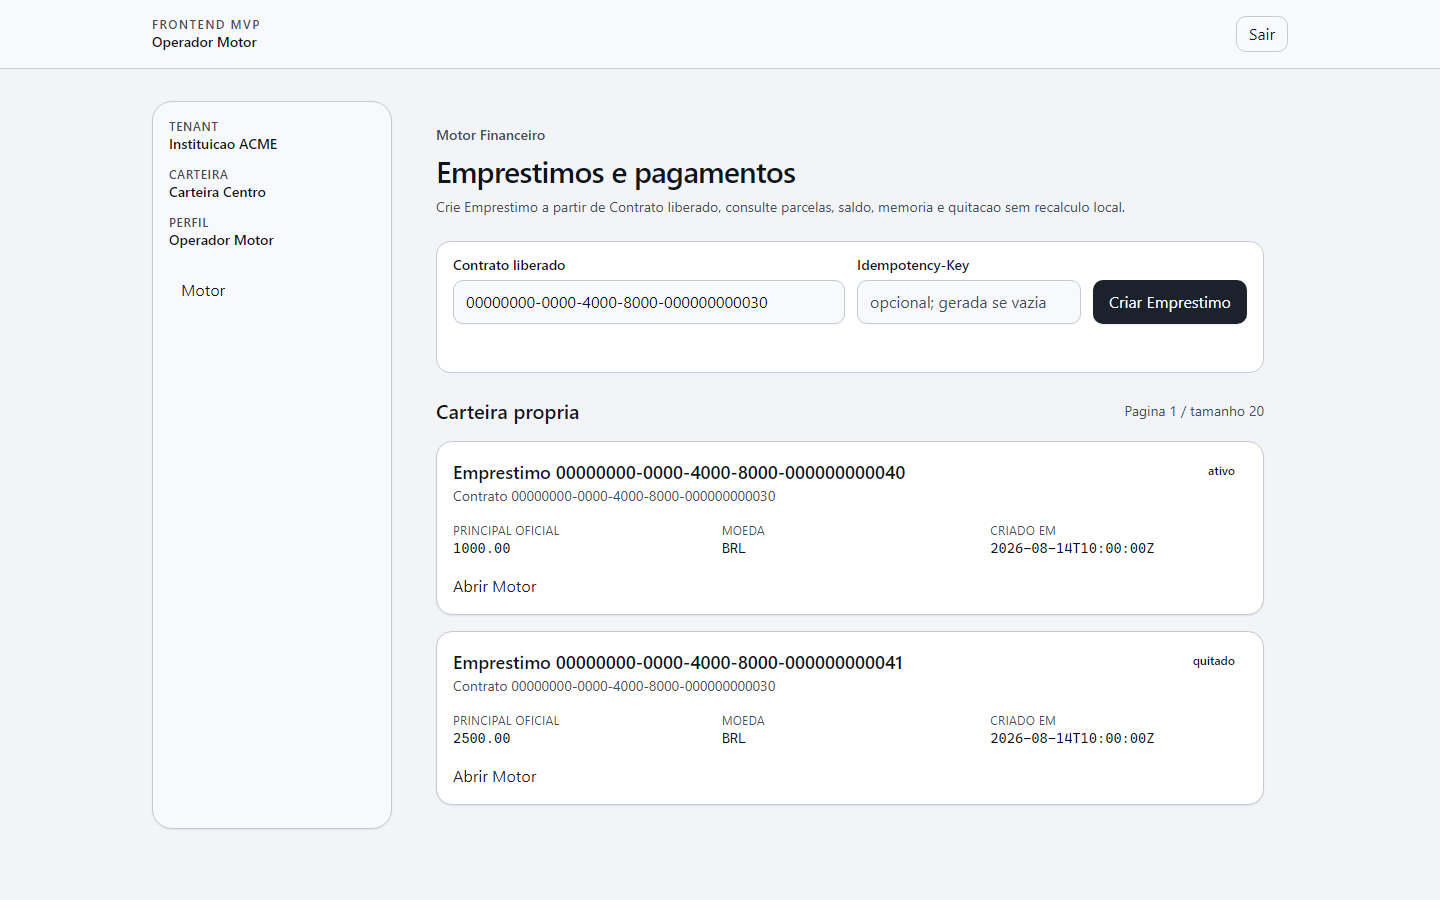
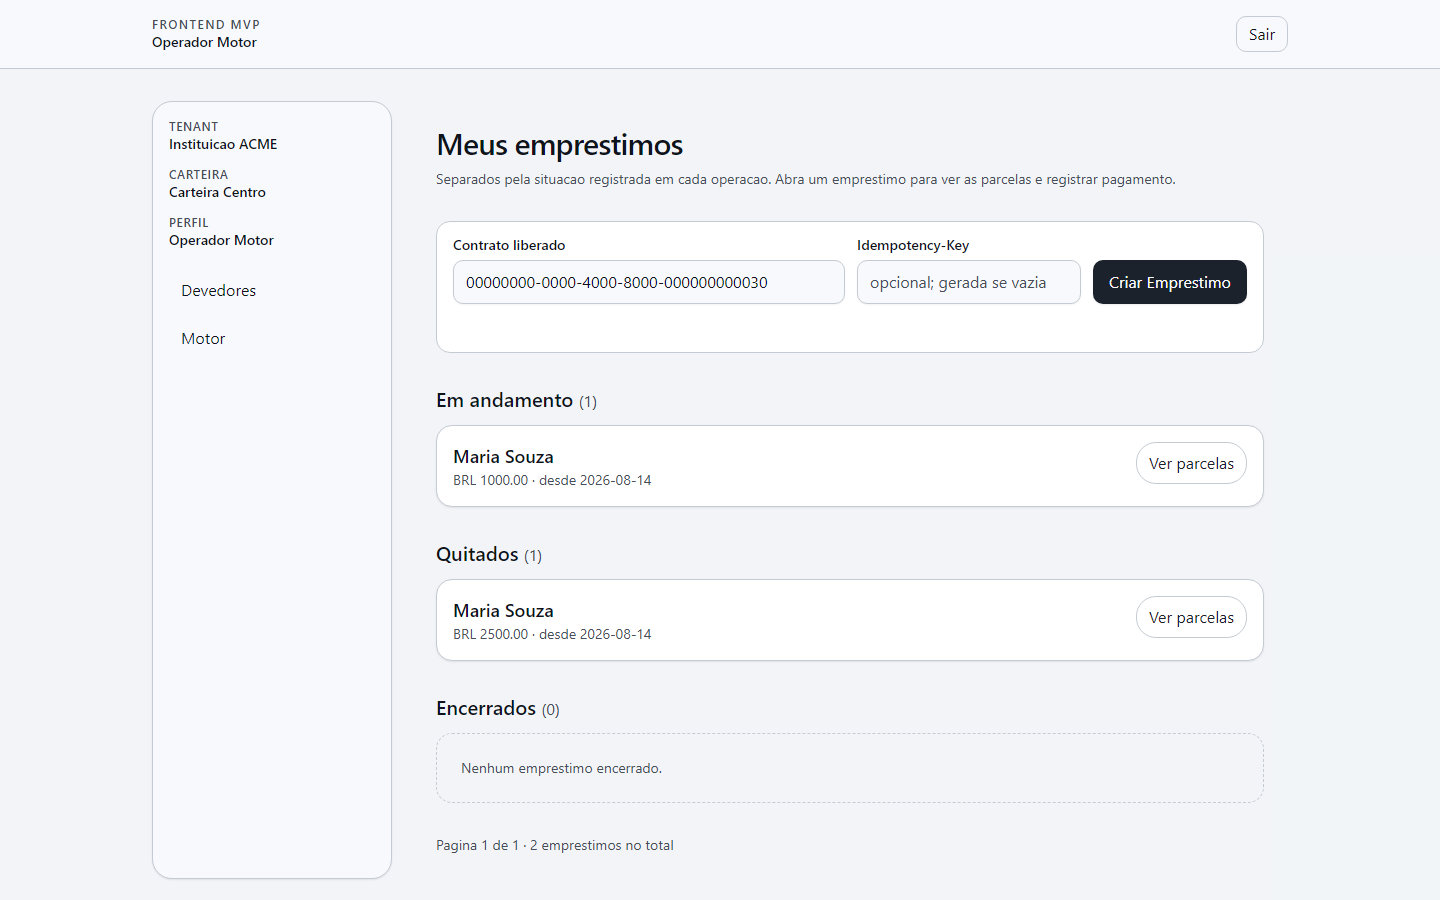
feat(frontend): lista de emprestimos em tres grupos (IMP-309)
A tela do Motor era uma superficie de certificacao, nao uma tela de
operador: titulo em UUID, "empty: nenhum Emprestimo oficial retornado",
"denied" como cabecalho, e um <span class="sr-only">loading empty denied
404 409 422 overflow</span> renderizado no DOM — vocabulario de teste
lido em voz alta por leitor de tela. O Credor abriu e nao entendeu nada.

A lista passa a ter Em andamento, Quitados e Encerrados, cada grupo com a
propria contagem e a propria mensagem de ausencia. O grupo vem de
comparacao literal com `loan.estado`, o estado que o backend devolve;
nada e concluido aqui a partir de data ou saldo. O nome do Devedor toma o
lugar do UUID no titulo da linha, resolvido no servidor com uma unica
chamada para a pagina inteira — sem `devedor.ler` o rotulo degrada e a
lista de emprestimos continua funcionando.

Evidencia visual: os dois pinos da lista foram avancados porque a tela
mudou, e conferidos estaveis em quatro execucoes seguidas.

As duas evidencias de **detalhe** foram encontradas nao deterministicas —
variam entre execucoes identicas, sem alteracao de codigo: 34% dos pixels
diferem em toda a area, com o texto pintado identico, e nenhum
deslocamento vertical entre -40 e +40 px realinha as imagens. A causa nao
foi isolada. Como o defeito e anterior a este IMP, os pinos de detalhe
seguem nos bytes ja versionados em vez dos gerados localmente, e a
medicao ficou registrada no relatorio do IMP-294 com a consequencia
[…]

diff --git a/frontend/src/components/motor/motor.tsx b/frontend/src/components/motor/motor.tsx
@@ -7,6 +7,7 @@ import {
   MOTOR_PAYMENT_CREATE_PERMISSION,
   MOTOR_RENEGOTIATION_CREATE_PERMISSION,
   MOTOR_SETTLEMENT_EXECUTE_PERMISSION,
+  agruparPorSituacao,
   hasExactPermission,
   type Balance,
   type CalculationMemory,
@@ -25,6 +26,8 @@ type MotorAction = (state: MotorActionState, formData: FormData) => Promise<Moto
 
 type MotorPageProps = Readonly<{
   createAction: MotorAction;
+  /** devedor_id -> nome, resolvido no servidor. Vazio quando falta permissao de leitura de Devedor. */
+  devedores: ReadonlyMap<string, string>;
   filters: LoanFilters;
   initialContractId?: string | undefined;
   initialState: MotorActionState;
@@ -113,15 +116,65 @@ function LoanCard({ loan }: { loan: Loan }) {
   );
 }
 
-export function MotorPage({ createAction, filters, initialContractId, initialState, permissions, recoveryHref, result }: MotorPageProps) {
+/**
+ * Linha da lista operacional: quem, quanto e desde quando.
+ *
+ * O identificador do Emprestimo deixa de ser o titulo. Um UUID nao diz nada a
+ * quem emprestou o proprio dinheiro; o nome do Devedor diz. O identificador
+ * continua acessivel no destino do link, para suporte e auditoria.
+ */
+function LoanRow({ devedor, loan }: { devedor: string | undefined; loan: Loan }) {
   return (
-    <main className="space-y-6 p-6">
-      <span className="sr-only">loading empty denied 404 409 422 overflow</span>
+    <li className="rounded-2xl border border-border bg-card p-4 shadow-sm">
+      <div className="flex flex-wrap items-start justify-between gap-3">
+        <div className="min-w-0">
+          <h3 className="truncate text-lg font-semibold">{devedor ?? "Devedor nao identificado"}</h3>
+          <p className="text-sm text-muted-foreground">
+            {loan.moeda} {loan.principal_original} · desde {loan.criado_em.slice(0, 10)}
+          </p>
+        </div>
+        <Link
+          className="shrink-0 rounded-xl border border-border px-3 py-2 text-sm font-semibold text-primary underline-offset-4 hover:underline"
+          href={`/app/motor/${loan.id}`}
+        >
+          Ver parcelas
+        </Link>
+      </div>
+    </li>
+  );
+}
+
+function SituacaoSection({
+  devedores,
+  emprestimos,
+  titulo,
+  vazio,
+}: Readonly<{ devedores: ReadonlyMap<string, string>; emprestimos: readonly Loan[]; titulo: string; vazio: string }>) {
+  return (
+    <section className="space-y-3">
+      <h2 className="text-xl font-semibold">
+        {titulo} <span className="text-base font-normal text-muted-foreground">({emprestimos.length})</span>
+      </h2>
+      {emprestimos.length === 0 ? (
+        <p className="rounded-2xl border border-dashed border-border p-6 text-sm text-muted-foreground">{vazio}</p>
+      ) : (
+        <ul className="grid list-none gap-3 p-0">
+          {emprestimos.map((loan) => (
+            <LoanRow devedor={devedores.get(loan.devedor_id)} key={loan.id} loan={loan} />
+          ))}
+        </ul>
+      )}
+    </section>
+  );
+}
+
+export function MotorPage({ createAction, devedores, filters, initialContractId, initialState, permissions, recoveryHref, result }: MotorPageProps) {
+  return (
+    <main className="space-y-8 p-6">
       <header className="space-y-2">
-        <p className="text-sm font-medium text-muted-foreground">Motor Financeiro</p>
-        <h1 className="text-3xl font-semibold tracking-tight">Emprestimos e pagamentos</h1>
+        <h1 className="text-3xl font-semibold tracking-tight">Meus emprestimos</h1>
         <p className="max-w-3xl text-sm text-muted-foreground">
-          Crie Emprestimo a partir de Contrato liberado, consulte parcelas, saldo, memoria e quitacao sem recalculo local.
+          Separados pela situacao registrada em cada operacao. Abra um emprestimo para ver as parcelas e registrar pagamento.
         </p>
       </header>
       {hasExactPermission(permissions, MOTOR_LOAN_CREATE_PERMISSION) ? (
@@ -130,19 +183,20 @@ export function MotorPage({ createAction, filters, initialContractId, initialSta
       {result.kind === "denied" ? <DeniedPanel /> : null}
       {result.kind === "problem" ? <ProblemPanel problem={result.problem} recoveryHref={recoveryHref} /> : null}
       {result.kind === "ready" ? (
-        <section className="space-y-4">
-          <div className="flex flex-wrap items-center justify-between gap-3">
-            <h2 className="text-xl font-semibold">Carteira propria</h2>
-            <p className="text-sm text-muted-foreground">Pagina {filters.page} / tamanho {filters.size}</p>
-          </div>
-          {result.data.items.length === 0 ? (
-            <div className="rounded-2xl border border-dashed border-border p-6 text-sm text-muted-foreground">empty: nenhum Emprestimo oficial retornado.</div>
-          ) : (
-            <div className="grid gap-4">
-              {result.data.items.map((loan) => <LoanCard key={loan.id} loan={loan} />)}
-            </div>
-          )}
-        </section>
+        <div className="space-y-8">
+          {agruparPorSituacao(result.data.items).map((grupo) => (
+            <SituacaoSection
+              devedores={devedores}
+              emprestimos={grupo.emprestimos}
+              key={grupo.chave}
+              titulo={grupo.titulo}
+              vazio={grupo.vazio}
+            />
+          ))}
+          <p className="text-sm text-muted-foreground">
+            Pagina {filters.page} de {result.data.pages} · {result.data.total} emprestimos no total
+          </p>
+        </div>
       ) : null}
     </main>
   );

diff --git a/frontend/tests/component/motor.test.tsx b/frontend/tests/component/motor.test.tsx
@@ -87,6 +87,7 @@ describe("Motor UI", () => {
     render(
       <MotorPage
         createAction={action}
+        devedores={new Map()}
         filters={{ page: 1, size: 20 }}
         initialContractId="00000000-0000-4000-8000-000000000030"
         initialState={INITIAL_MOTOR_ACTION_STATE}
@@ -95,16 +96,52 @@ describe("Motor UI", () => {
         result={{ kind: "ready", data: list }}
       />,
     );
-    expect(screen.getByRole("heading", { name: /Emprestimos e pagamentos/i })).toBeInTheDocument();
+    expect(screen.getByRole("heading", { name: /Meus emprestimos/i })).toBeInTheDocument();
     expect(screen.getByLabelText(/Contrato liberado/i)).toHaveValue("00000000-0000-4000-8000-000000000030");
-    expect(screen.getByText(/empty: nenhum Emprestimo/i)).toBeInTheDocument();
+    // empty: cada um dos tres grupos declara a propria ausencia, em vez de uma
+    // unica mensagem generica para a pagina inteira.
+    expect(screen.getByText(/Nenhum emprestimo em andamento/i)).toBeInTheDocument();
+    expect(screen.getByText(/Nenhum emprestimo quitado ainda/i)).toBeInTheDocument();
+    expect(screen.getByText(/Nenhum emprestimo encerrado/i)).toBeInTheDocument();
     expect(screen.queryByText(/accessToken|Bearer|Authorization/i)).not.toBeInTheDocument();
+  });
+
+  it("separa os emprestimos pelo estado devolvido, com o nome do Devedor no lugar do UUID", () => {
+    const quitado: Loan = { ...loan, devedor_id: "00000000-0000-4000-8000-000000000011", estado: "quitado", id: "00000000-0000-4000-8000-000000000041" };
+    const encerrado: Loan = { ...loan, devedor_id: "00000000-0000-4000-8000-000000000012", estado: "cancelado", id: "00000000-0000-4000-8000-000000000042" };
+    const list: LoanList = { items: [loan, quitado, encerrado], page: 1, pages: 1, size: 20, total: 3 };
+    render(
+      <MotorPage
+        createAction={action}
+        devedores={new Map([[loan.devedor_id, "Maria Souza"], [quitado.devedor_id, "Joao Lima"]])}
+        filters={{ page: 1, size: 20 }}
+        initialState={INITIAL_MOTOR_ACTION_STATE}
+        permissions={permissions}
+        recoveryHref="/session/recover"
+        result={{ kind: "ready", data: list }}
+      />,
+    );
+
+    // O grupo vem do campo `estado` que o backend devolveu, nunca de uma
+    // conclusao tirada de datas ou de saldo aqui.
+    expect(screen.getByRole("heading", { name: /Em andamento \(1\)/i })).toBeInTheDocument();
+    expect(screen.getByRole("heading", { name: /Quitados \(1\)/i })).toBeInTheDocument();
+    expect(screen.getByRole("heading", { name: /Encerrados \(1\)/i })).toBeInTheDocument();
+
+    expect(screen.getByRole("heading", { name: "Maria Souza" })).toBeInTheDocument();
+    expect(screen.getByRole("heading", { name: "Joao Lima" })).toBeInTheDocument();
+    // Devedor fora do mapa degrada o rotulo; nunca cai para o identificador cru.
+    expect(screen.getByRole("heading", { name: /Devedor nao identificado/i })).toBeInTheDocument();
+    expect(screen.queryByText(encerrado.devedor_id)).not.toBeInTheDocument();
+
+    expect(screen.getAllByRole("link", { name: /Ver parcelas/i })).toHaveLength(3);
   });
 
   it("mostra denied sem tentar fallback permissivo", () => {
     render(
       <MotorPage
         createAction={action}
+        devedores={new Map()}
         filters={{ page: 1, size: 20 }}
         initialState={INITIAL_MOTOR_ACTION_STATE}
         permissions={[]}

diff --git a/frontend/tests/motor-e2e/motor.spec.ts b/frontend/tests/motor-e2e/motor.spec.ts
@@ -53,9 +53,16 @@ test("lista Emprestimos e cria Emprestimo a partir de Contrato liberado sem Cart
   page.on("request", (request) => requests.push(request.url()));
   await login(page);
   await page.goto(`/app/motor?contrato_id=${IDS.contract}&tenant_id=hostil&carteira_id=hostil`);
-  await expect(page.getByRole("heading", { name: "Emprestimos e pagamentos" })).toBeVisible();
+  await expect(page.getByRole("heading", { name: "Meus emprestimos" })).toBeVisible();
   await expect(page.getByRole("link", { exact: true, name: "Motor" })).toHaveAttribute("href", "/app/motor");
   await expect(page.getByLabel("Contrato liberado")).toHaveValue(IDS.contract);
+  // A lista separa pelos estados que o backend devolveu e identifica o Devedor
+  // pelo nome. O identificador do Emprestimo sai do corpo da tela.
+  await expect(page.getByRole("heading", { name: /Em andamento \(1\)/ })).toBeVisible();
+  await expect(page.getByRole("heading", { name: /Quitados \(1\)/ })).toBeVisible();
+  await expect(page.getByRole("heading", { name: /Encerrados \(0\)/ })).toBeVisible();
+  await expect(page.getByRole("heading", { name: "Maria Souza" }).first()).toBeVisible();
+  await expect(page.getByText(IDS.loan, { exact: true })).toHaveCount(0);
   await activateButton(page, "Criar Emprestimo");
   await expect(page.getByText(/Emprestimo criado pelo Motor/)).toBeVisible();
   await assertNoToken(page, context);
@@ -104,7 +111,10 @@ test("RBAC, empty, 404, 409, 5xx e estados permanecem seguros", async ({ page })
   await expect(page).toHaveURL(/\/login$/);
   await login(page, "VAZIO");
   await page.goto("/app/motor");
-  await expect(page.getByText(/empty: nenhum Emprestimo/)).toBeVisible();
+  // empty: cada grupo declara a propria ausencia.
+  await expect(page.getByText(/Nenhum emprestimo em andamento/)).toBeVisible();
+  await expect(page.getByText(/Nenhum emprestimo quitado ainda/)).toBeVisible();
+  await expect(page.getByText(/Nenhum emprestimo encerrado/)).toBeVisible();
   await page.getByRole("button", { name: "Sair" }).click();
   await expect(page).toHaveURL(/\/login$/);
   await login(page, "NAO-ENCONTRADO");

diff --git a/frontend/src/app/app/motor/page.tsx b/frontend/src/app/app/motor/page.tsx
@@ -6,6 +6,7 @@ import { MotorPage } from "@/components/motor/motor";
 import { createRuntimeDependencies } from "@/lib/bff/backend.server";
 import { recoveryAttemptCookieName } from "@/lib/bff/context.server";
 import { currentOperationalContext } from "@/lib/bff/current-context.server";
+import { listDevedores } from "@/lib/bff/devedores.server";
 import { listLoans } from "@/lib/bff/motor.server";
 import { INITIAL_MOTOR_ACTION_STATE, isUuid, resolveLoanFilters } from "@/lib/motor/motor-policy";
 
@@ -21,14 +22,26 @@ export default async function MotorRoute({ searchParams }: PageProps<"/app/motor
   const cookieStore = await cookies();
   const dependencies = createRuntimeDependencies();
   const context = await currentOperationalContext();
-  const result = await listLoans(cookieStore, context, filters, dependencies);
+  const [result, devedoresResult] = await Promise.all([
+    listLoans(cookieStore, context, filters, dependencies),
+    // Uma chamada para toda a pagina, nunca uma por emprestimo. Sem nome, a
+    // lista voltaria a identificar o Devedor por UUID.
+    listDevedores(cookieStore, context, { page: 1, size: 100 }, dependencies),
+  ]);
   if (result.kind === "problem" && result.problem.status === 401) {
     redirect(cookieStore.get(recoveryAttemptCookieName(dependencies.config)) ? "/login" : "/session/recover");
   }
+  // Falta de permissao de Devedor degrada o rotulo, nunca a lista de emprestimos.
+  const devedores = new Map<string, string>(
+    devedoresResult.kind === "ready" && "items" in devedoresResult.data
+      ? devedoresResult.data.items.map((devedor) => [devedor.id, devedor.nome])
+      : [],
+  );
   const contractCandidate = typeof query.contrato_id === "string" ? query.contrato_id : undefined;
   return (
     <MotorPage
       createAction={createLoanAction}
+      devedores={devedores}
       filters={filters}
       initialContractId={contractCandidate && isUuid(contractCandidate) ? contractCandidate : undefined}
       initialState={INITIAL_MOTOR_ACTION_STATE}

diff --git a/frontend/src/lib/motor/motor-policy.ts b/frontend/src/lib/motor/motor-policy.ts
@@ -123,6 +123,42 @@ export function resolveLoanFilters(query: Record<string, string | string[] | und
   };
 }
 
+/**
+ * Os tres grupos que o Credor pediu, cada um amarrado a um estado que o backend
+ * retorna. Nao ha derivacao: "quitado" e o estado oficial do Emprestimo, nunca
+ * uma conclusao tirada de datas ou de saldo no browser.
+ */
+export const SITUACOES = [
+  {
+    chave: "em-andamento",
+    estado: "ativo",
+    titulo: "Em andamento",
+    vazio: "Nenhum emprestimo em andamento.",
+  },
+  {
+    chave: "quitados",
+    estado: "quitado",
+    titulo: "Quitados",
+    vazio: "Nenhum emprestimo quitado ainda.",
+  },
+  {
+    chave: "encerrados",
+    estado: "cancelado",
+    titulo: "Encerrados",
+    vazio: "Nenhum emprestimo encerrado.",
+  },
+] as const satisfies readonly { chave: string; estado: LoanState; titulo: string; vazio: string }[];
+
+export type Situacao = (typeof SITUACOES)[number];
+
+/** Separa a pagina retornada nos tres grupos, comparando o estado literalmente. */
+export function agruparPorSituacao(loans: readonly Loan[]): readonly (Situacao & { emprestimos: readonly Loan[] })[] {
+  return SITUACOES.map((situacao) => ({
+    ...situacao,
+    emprestimos: loans.filter((loan) => loan.estado === situacao.estado),
+  }));
+}
+
 export function allowedMotorCommands(loan: Pick<Loan, "estado">, permissions: readonly string[]): readonly MotorCommand[] {
   if (loan.estado !== "ativo") return [];
   const commands: MotorCommand[] = [];

diff --git a/docs/implementation/backlogs/PLAN-027-execution-backlog.md b/docs/implementation/backlogs/PLAN-027-execution-backlog.md
@@ -2,9 +2,9 @@
 
 **ID:** PLAN-027-EXEC
 
-**Versao:** 1.3.0
+**Versao:** 1.4.0
 
-**Status:** IMP-305, IMP-306 e IMP-308 concluidos; IMP-307 e IMP-309..311 planejados
+**Status:** IMP-305, IMP-306, IMP-308 e IMP-309 concluidos; IMP-307, IMP-310 e IMP-311 planejados
 
 ---
 
@@ -131,7 +131,19 @@ aprovacao permanece porque e a caixa de entrada do agente de IA
 - **Criterios de conclusao:** nenhuma classificacao calculada no frontend;
   estados vazios explicitos.
 - **Suite minima:** componente e Playwright.
-- **Status:** Planejado.
+- **Status:** Concluido.
+- **Nota de execucao:** o agrupamento compara `loan.estado` literalmente com o
+  estado que o backend devolve (`ativo`/`quitado`/`cancelado`); nao ha derivacao
+  por data ou por saldo. Cada grupo declara a propria ausencia, em vez de uma
+  unica mensagem para a pagina inteira. O nome do Devedor substitui o UUID como
+  titulo da linha e e resolvido no servidor com **uma** chamada para a pagina
+  toda, nunca uma por emprestimo; sem `devedor.ler` o rotulo degrada para
+  "Devedor nao identificado" e a lista de emprestimos continua intacta.
+- **Nota de gate:** as duas evidencias visuais da lista foram repinadas porque a
+  tela mudou, e verificadas estaveis em quatro execucoes. As duas evidencias de
+  **detalhe** foram encontradas nao deterministicas — variam entre execucoes
+  identicas sem alteracao de codigo. Defeito anterior a este IMP, com medicao e
+  consequencia registradas no relatorio do IMP-294.
 
 ### IMP-310 - Devedor com situacao do emprestimo
 
@@ -181,6 +193,7 @@ aprovacao permanece porque e a caixa de entrada do agente de IA
 
 | Versao | Data | Descricao |
 |---|---|---|
+| 1.4.0 | 2026-08-17 | IMP-309 concluido: lista em tres grupos pelo estado oficial, Devedor pelo nome e evidencia visual repinada. |
 | 1.3.0 | 2026-08-17 | IMP-308 concluido em unidade, componente, BFF e contrato; verificacao em stack real pendente. |
 | 1.2.0 | 2026-08-16 | IMP-306 concluido: endpoint de lancamento publicado, inventario em 108/137 e pinos de contrato avancados. |
 | 1.1.0 | 2026-08-16 | IMP-305 concluido: lancamento composto em transacao unica, com a etapa financeira injetada para respeitar o guardrail de exclusividade do Motor. |

diff --git a/docs/audits/reports/frontend-mvp-imp-294-motor-report-2026-08-14.md b/docs/audits/reports/frontend-mvp-imp-294-motor-report-2026-08-14.md
@@ -65,10 +65,28 @@ reverter arquivos.
 
 | Evidencia | Dimensao | SHA-256 |
 |---|---:|---|
[6 lines of base64/hex data omitted]
+
+---
+
+> **Pinos das duas capturas de lista avancados no IMP-309** (PLAN-027). A tela de
+> lista foi reescrita em tres grupos e passou a identificar o Devedor pelo nome;
+> as capturas mudaram porque a tela mudou. Verificadas estaveis em quatro
+> execucoes consecutivas do `npm run test:motor`.
+>
+> **Defeito conhecido nas duas capturas de detalhe.** Elas variam entre execucoes
+> identicas, sem nenhuma alteracao de codigo: 34% dos pixels diferem, em toda a
+> area da imagem, com o texto pintado identico nas duas execucoes. Nenhum
+> deslocamento vertical entre -40 e +40 pixels realinha as imagens, entao nao e
+> simples rolagem. A causa nao foi isolada e o defeito e anterior ao IMP-309 —
+> por isso os pinos de detalhe permanecem nos bytes ja versionados, e nao nos
+> gerados localmente. Consequencia pratica: quem rodar o Playwright do Motor
+> localmente vera o gate `test-plan-025-contracts` acusar divergencia nessas duas
+> evidencias. Em CI nao ocorre, porque a certificacao roda antes do E2E
+> regenerar os PNGs.
 
 ---
 
